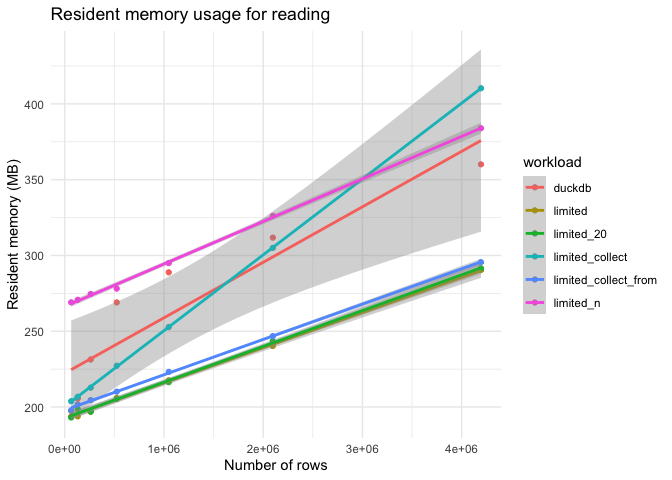
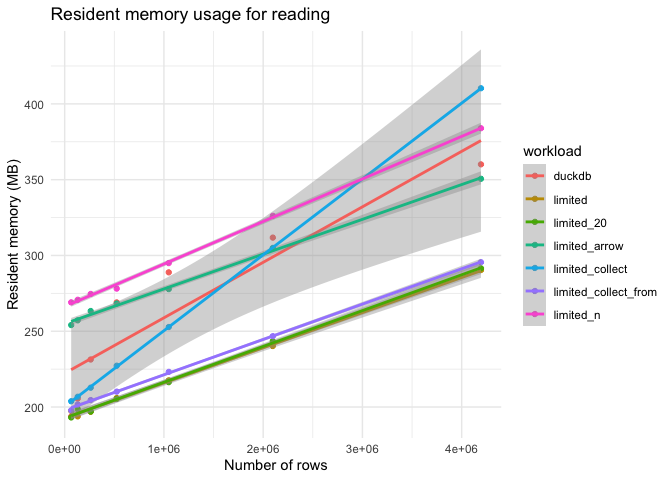
With arrow

diff --git a/README.md b/README.md
@@ -88,22 +88,25 @@ Running variants of the code in `read`.R`, by`run_read.R\`:
     #> Coefficients:
     #>                  (Intercept)               workloadlimited  
     #>                      265.777                       -45.442  
-    #>           workloadlimited_20       workloadlimited_collect  
-    #>                      -44.973                        -5.962  
-    #> workloadlimited_collect_from             workloadlimited_n  
-    #>                      -40.098                        33.882
+    #>           workloadlimited_20         workloadlimited_arrow  
+    #>                      -44.973                        16.487  
+    #>      workloadlimited_collect  workloadlimited_collect_from  
+    #>                       -5.962                       -40.098  
+    #>            workloadlimited_n  
+    #>                       33.882
 
 ### Overhead
 
-    #> # A tibble: 6 × 5
+    #> # A tibble: 7 × 5
     #>   workload             mem_min mem_max mem_delta overhead
     #>   <chr>                  <dbl>   <dbl>     <dbl>    <dbl>
     #> 1 limited                 197.    290.      92.9     1   
-    #> 2 limited_collect_from    198.    296.      97.7     1.05
-    #> 3 limited_20              193.    292.      98.4     1.06
-    #> 4 limited_n               269.    384.     115.      1.24
-    #> 5 duckdb                  194.    360.     166.      1.79
-    #> 6 limited_collect         204.    410.     206.      2.22
+    #> 2 limited_arrow           254.    351.      96.5     1.04
+    #> 3 limited_collect_from    198.    296.      97.7     1.05
+    #> 4 limited_20              193.    292.      98.4     1.06
+    #> 5 limited_n               269.    384.     115.      1.24
+    #> 6 duckdb                  194.    360.     166.      1.79
+    #> 7 limited_collect         204.    410.     206.      2.22
 
 ### Conclusion
 
